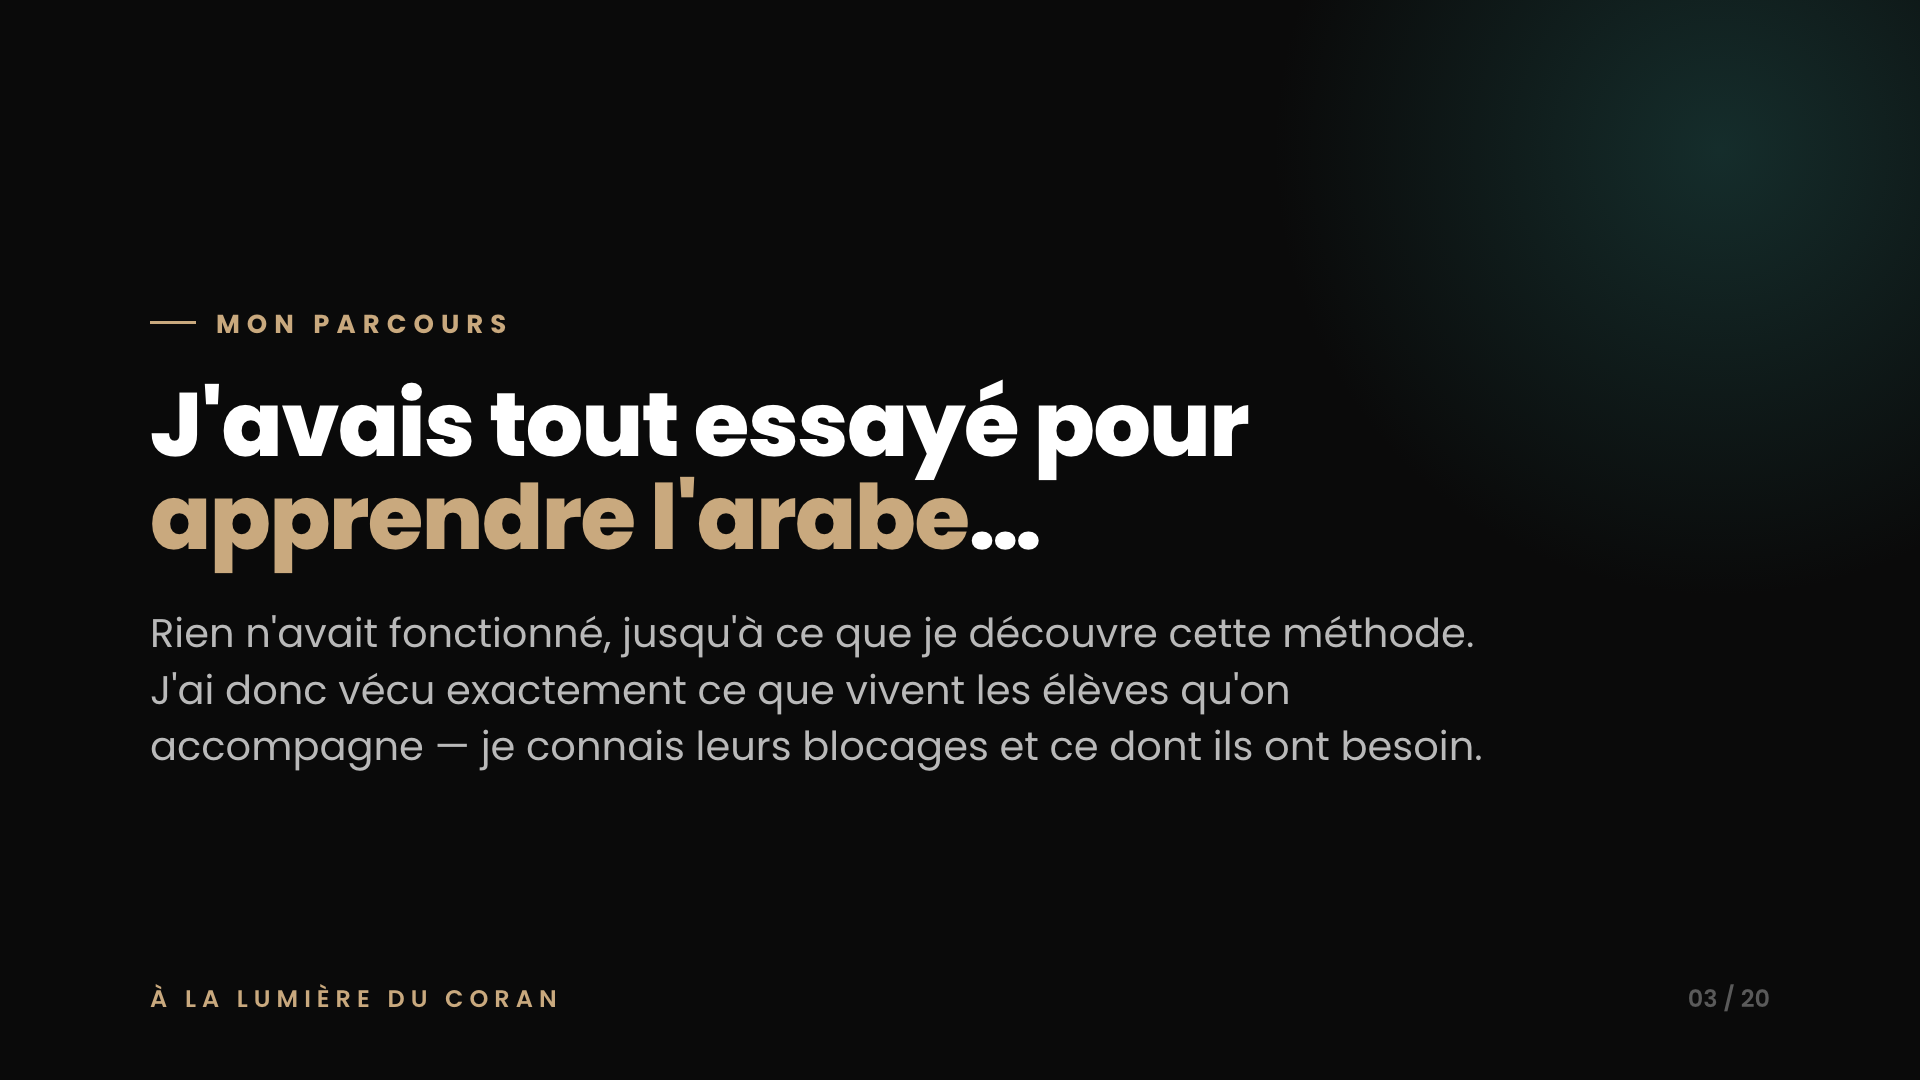
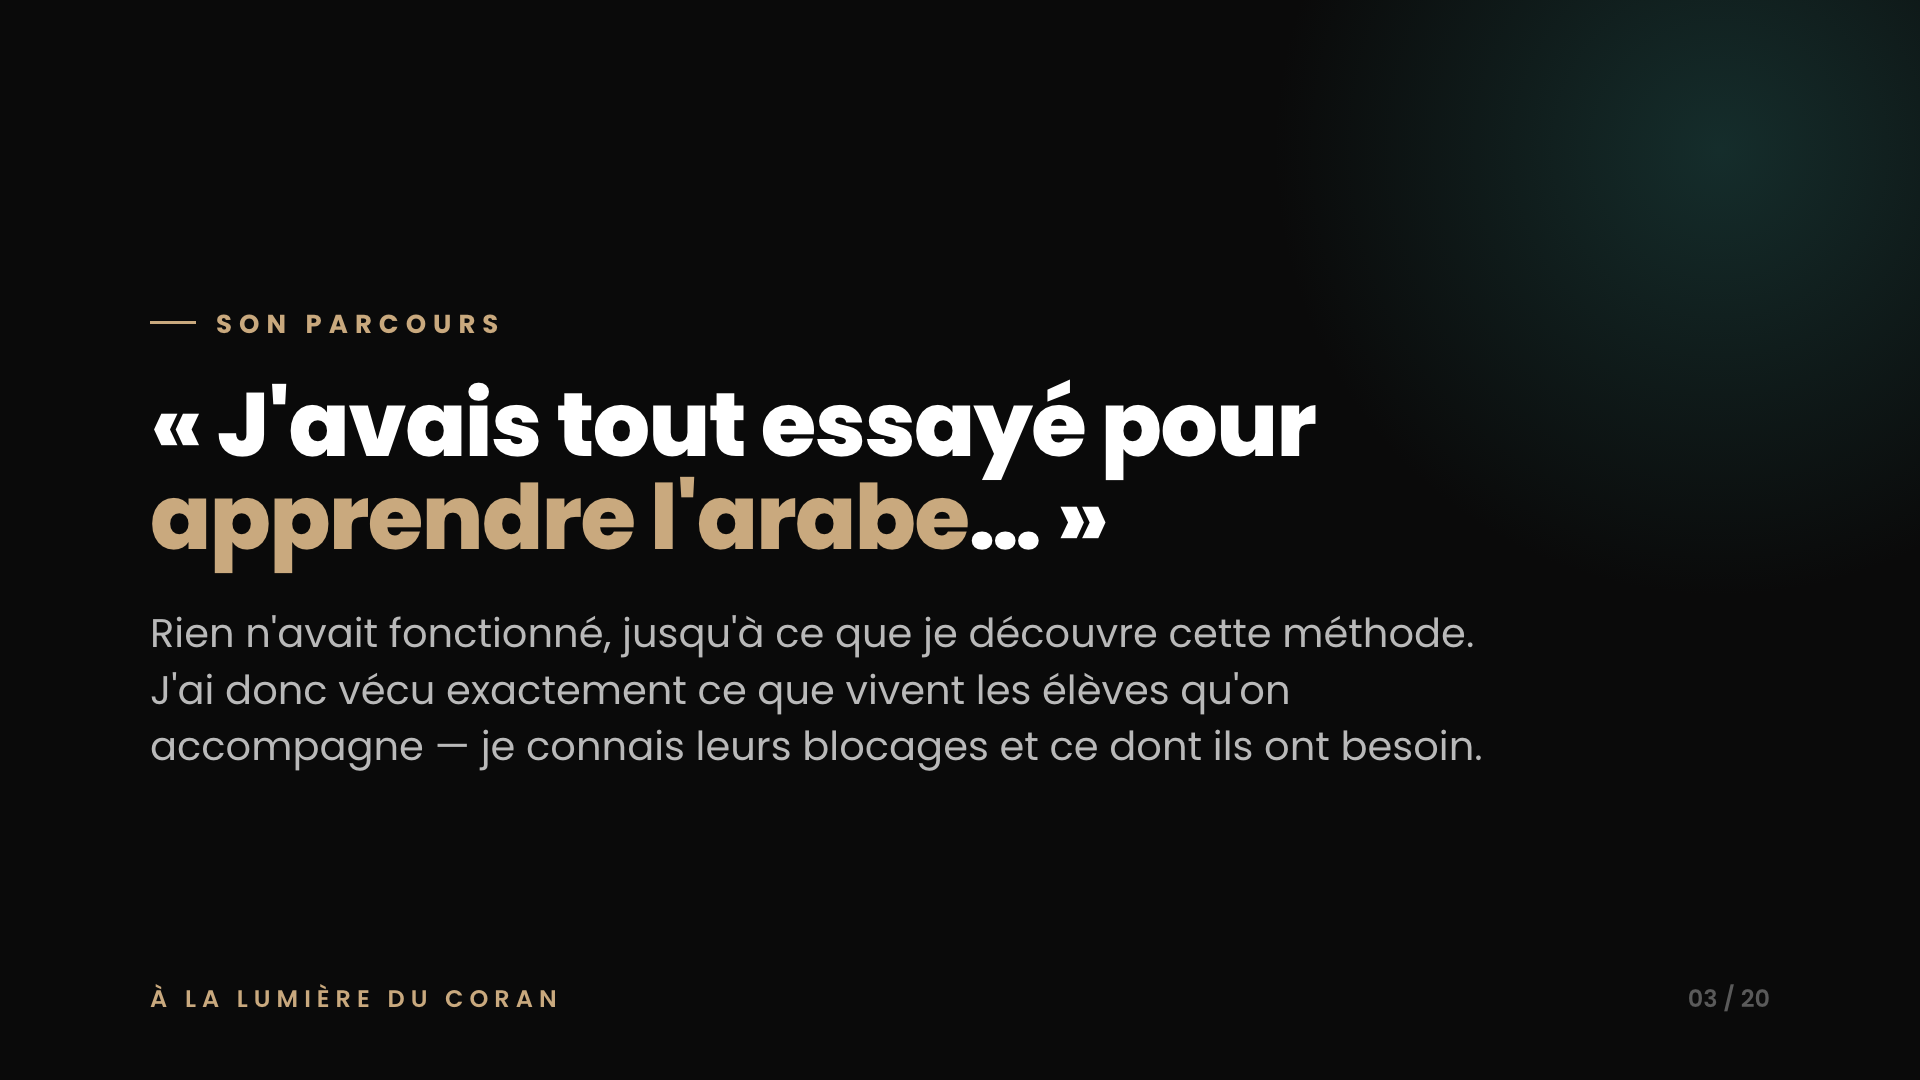
Slide 3 Son parcours (citation) + touche F plein ecran

Changed region(s): [[0.0625, 0.3361, 0.6875, 0.4889], [0.0938, 0.275, 0.2812, 0.3056]]

diff --git a/slides/deck.html b/slides/deck.html
@@ -63,7 +63,7 @@
 const S = [
   {k:"On recrute", sm:true, t:`Actuellement, nous recherchons des <span class="g">setters</span> et des <span class="v">closers</span> <span style="color:#9a9a9a;font-weight:600">(homme / femme)</span> pour notre institut d'arabe coranique.`, sub:`Je t'invite à bien regarder cette vidéo en entier pour comprendre ce qu'on recherche — et ce qu'on ne recherche pas.`},
   {t:`Qui est <span class="g">Thomas</span> ?`, img:"thomas.jpg", bullets:[`Professeur d'arabe depuis plus de <b>4 ans</b>`,`Formé par <b>Nouman Ali Khan</b>, l'un des profs d'arabe les plus connus au monde`]},
-  {k:"Mon parcours", t:`J'avais tout essayé pour <span class="g">apprendre l'arabe</span>…`, sub:`Rien n'avait fonctionné, jusqu'à ce que je découvre cette méthode. J'ai donc vécu exactement ce que vivent les élèves qu'on accompagne — je connais leurs blocages et ce dont ils ont besoin.`},
+  {k:"Son parcours", t:`« J'avais tout essayé pour <span class="g">apprendre l'arabe</span>… »`, sub:`Rien n'avait fonctionné, jusqu'à ce que je découvre cette méthode. J'ai donc vécu exactement ce que vivent les élèves qu'on accompagne — je connais leurs blocages et ce dont ils ont besoin.`},
   {k:"L'institut", center:true, sm:true, t:`L'objectif de notre institut est de devenir <span class="g">la référence numéro 1</span> de l'apprentissage de l'arabe.`},
   {t:`Et pour ça,<br>on a besoin <span class="g">de toi.</span>`, center:true},
   {k:"Qui on aide ?", t:`Des <span class="g">frères et sœurs francophones</span>,<br>principalement entre 25 et 50 ans.`, sub:`Leur objectif : atteindre une compréhension totale de l'arabe coranique en <b style="color:#C9A97E">10 mois</b>.`},
@@ -107,7 +107,11 @@ let idx = parseInt(params.get('s')||'0',10); if(isNaN(idx)||idx<0)idx=0; if(idx>
 function go(n){ idx=Math.max(0,Math.min(S.length-1,n)); render(idx); fit(); }
 go(idx);
 window.addEventListener('resize',fit);
-document.addEventListener('keydown',e=>{if(e.key==='ArrowRight'||e.key===' ')go(idx+1);if(e.key==='ArrowLeft')go(idx-1);});
+document.addEventListener('keydown',e=>{
+  if(e.key==='ArrowRight'||e.key===' ')go(idx+1);
+  if(e.key==='ArrowLeft')go(idx-1);
+  if(e.key==='f'||e.key==='F'){ if(!document.fullscreenElement){(document.documentElement.requestFullscreen||document.documentElement.webkitRequestFullscreen||function(){}).call(document.documentElement)} else {(document.exitFullscreen||document.webkitExitFullscreen||function(){}).call(document)} }
+});
 // navigation tactile / clic : moitié droite = suivant, moitié gauche = précédent
 document.addEventListener('click',e=>{ go(e.clientX < window.innerWidth/2 ? idx-1 : idx+1); });
 window.__SLIDE_COUNT__ = S.length;
